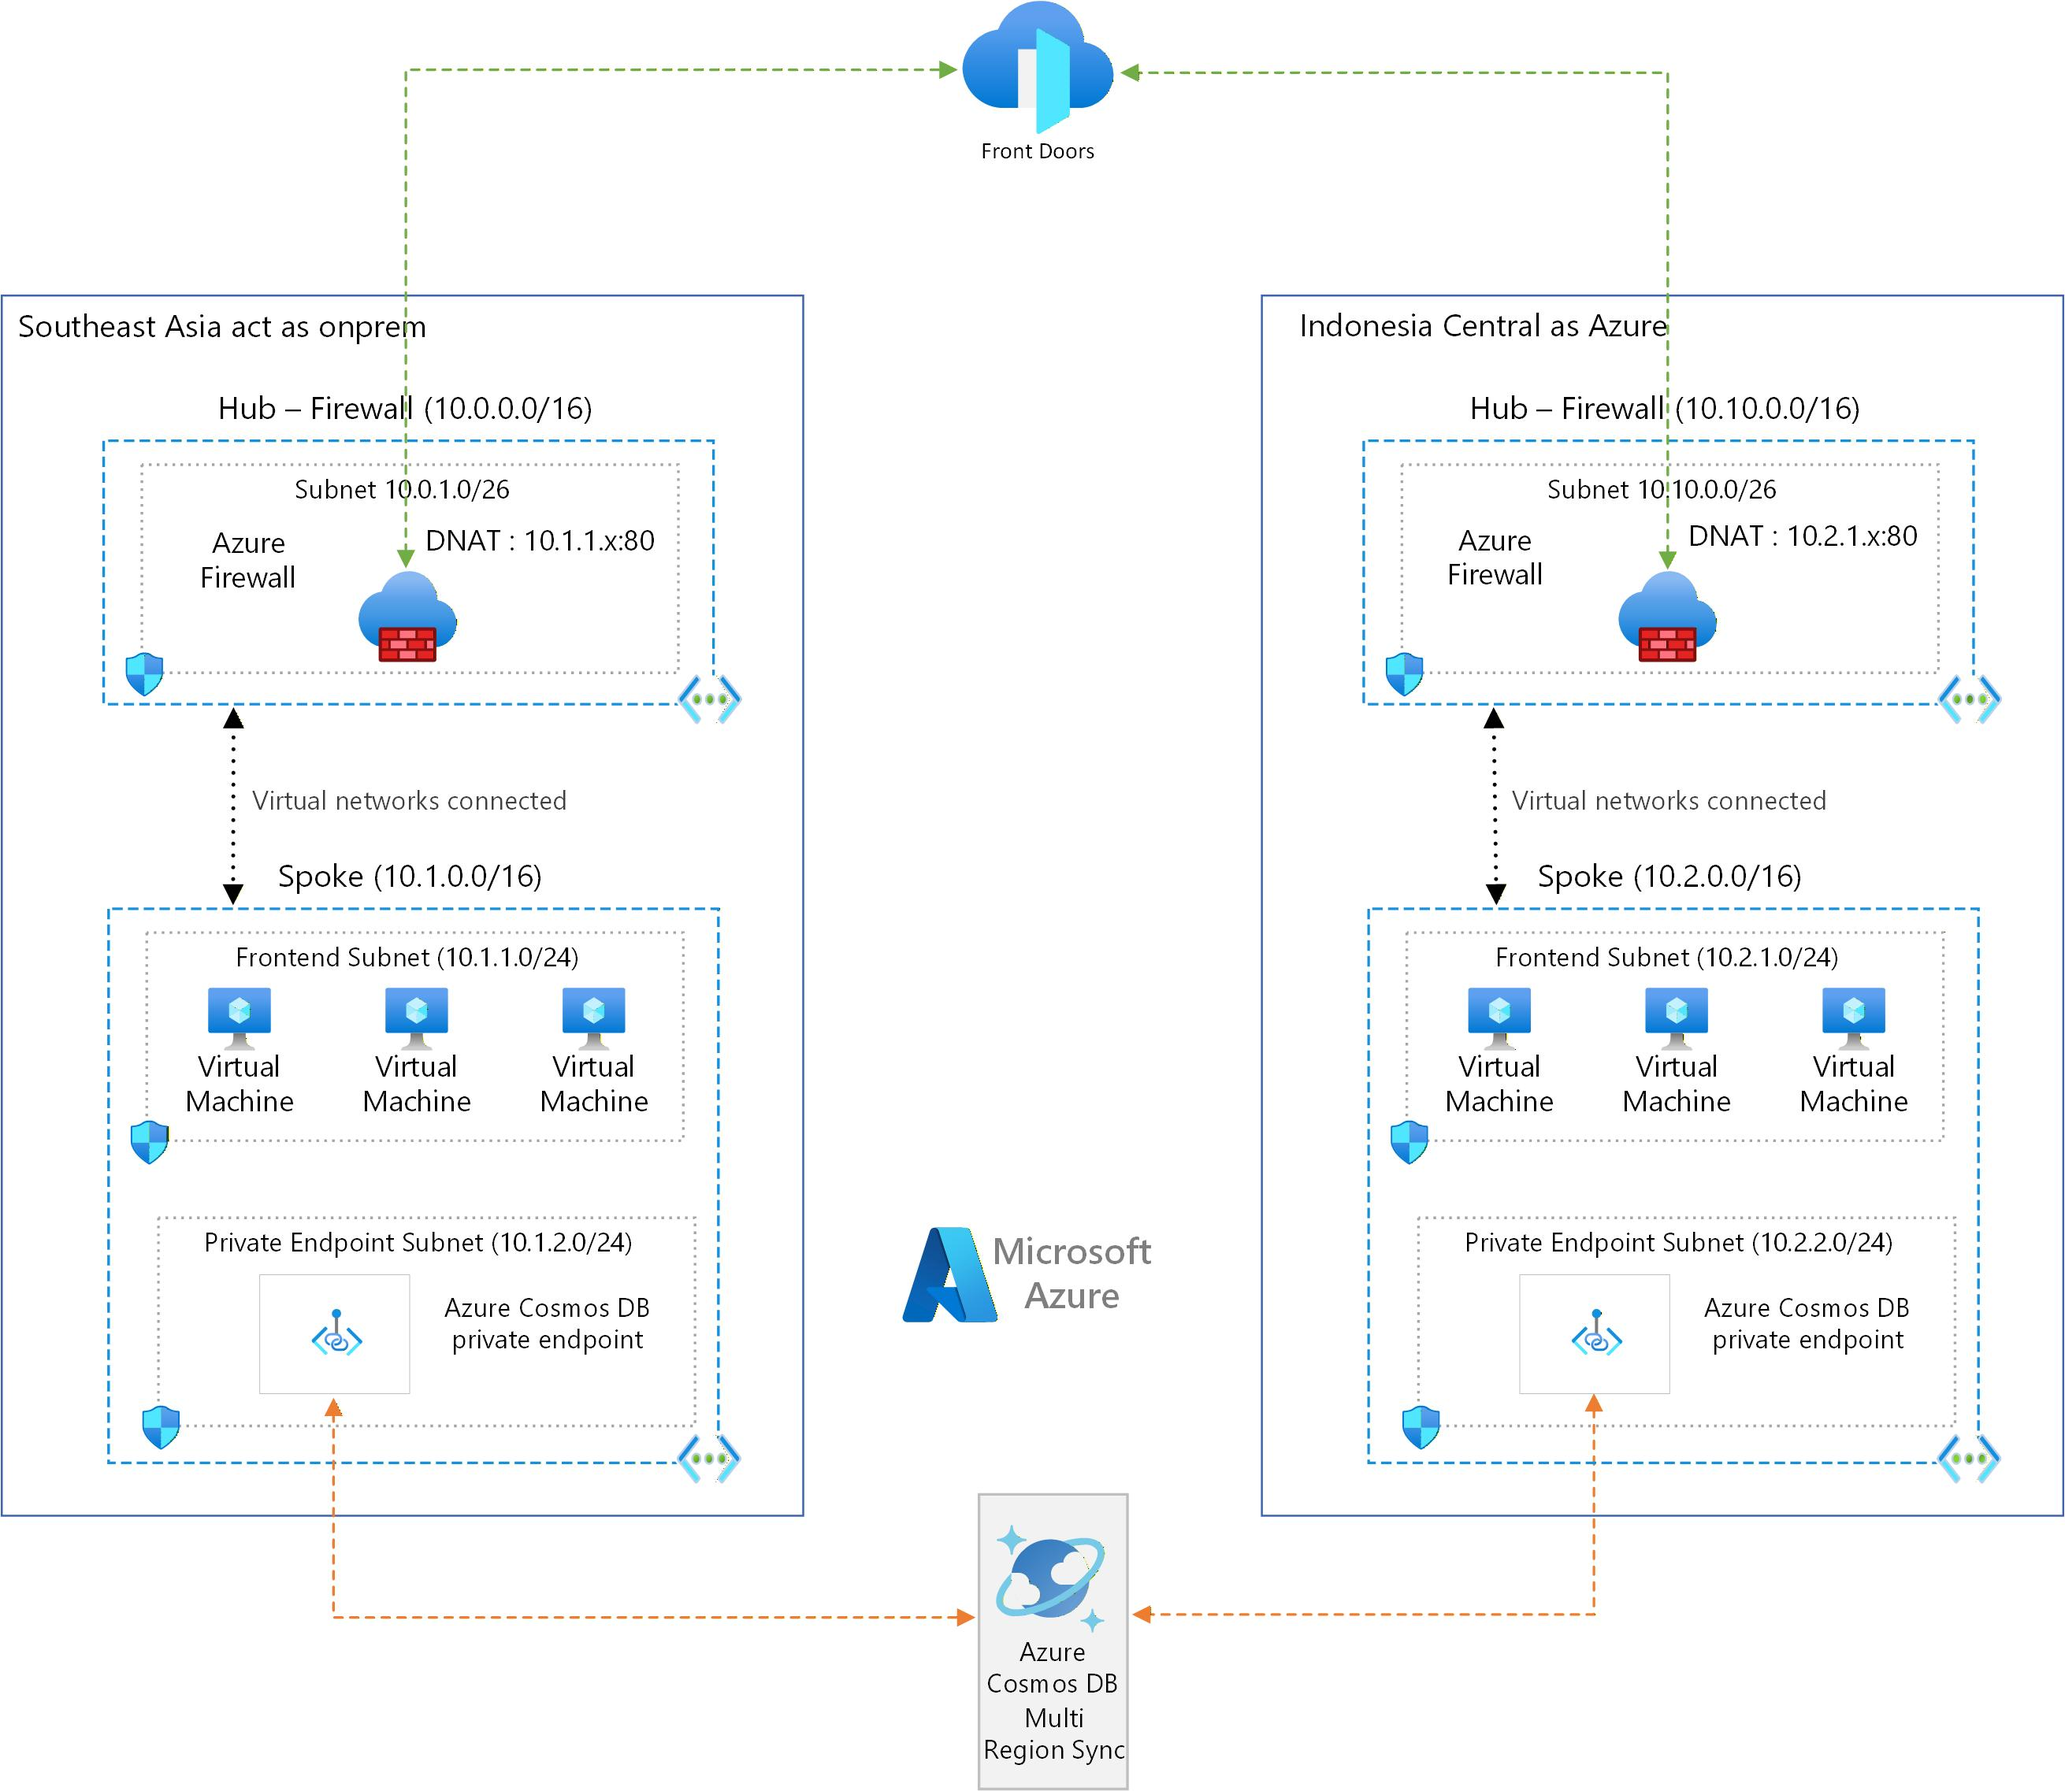
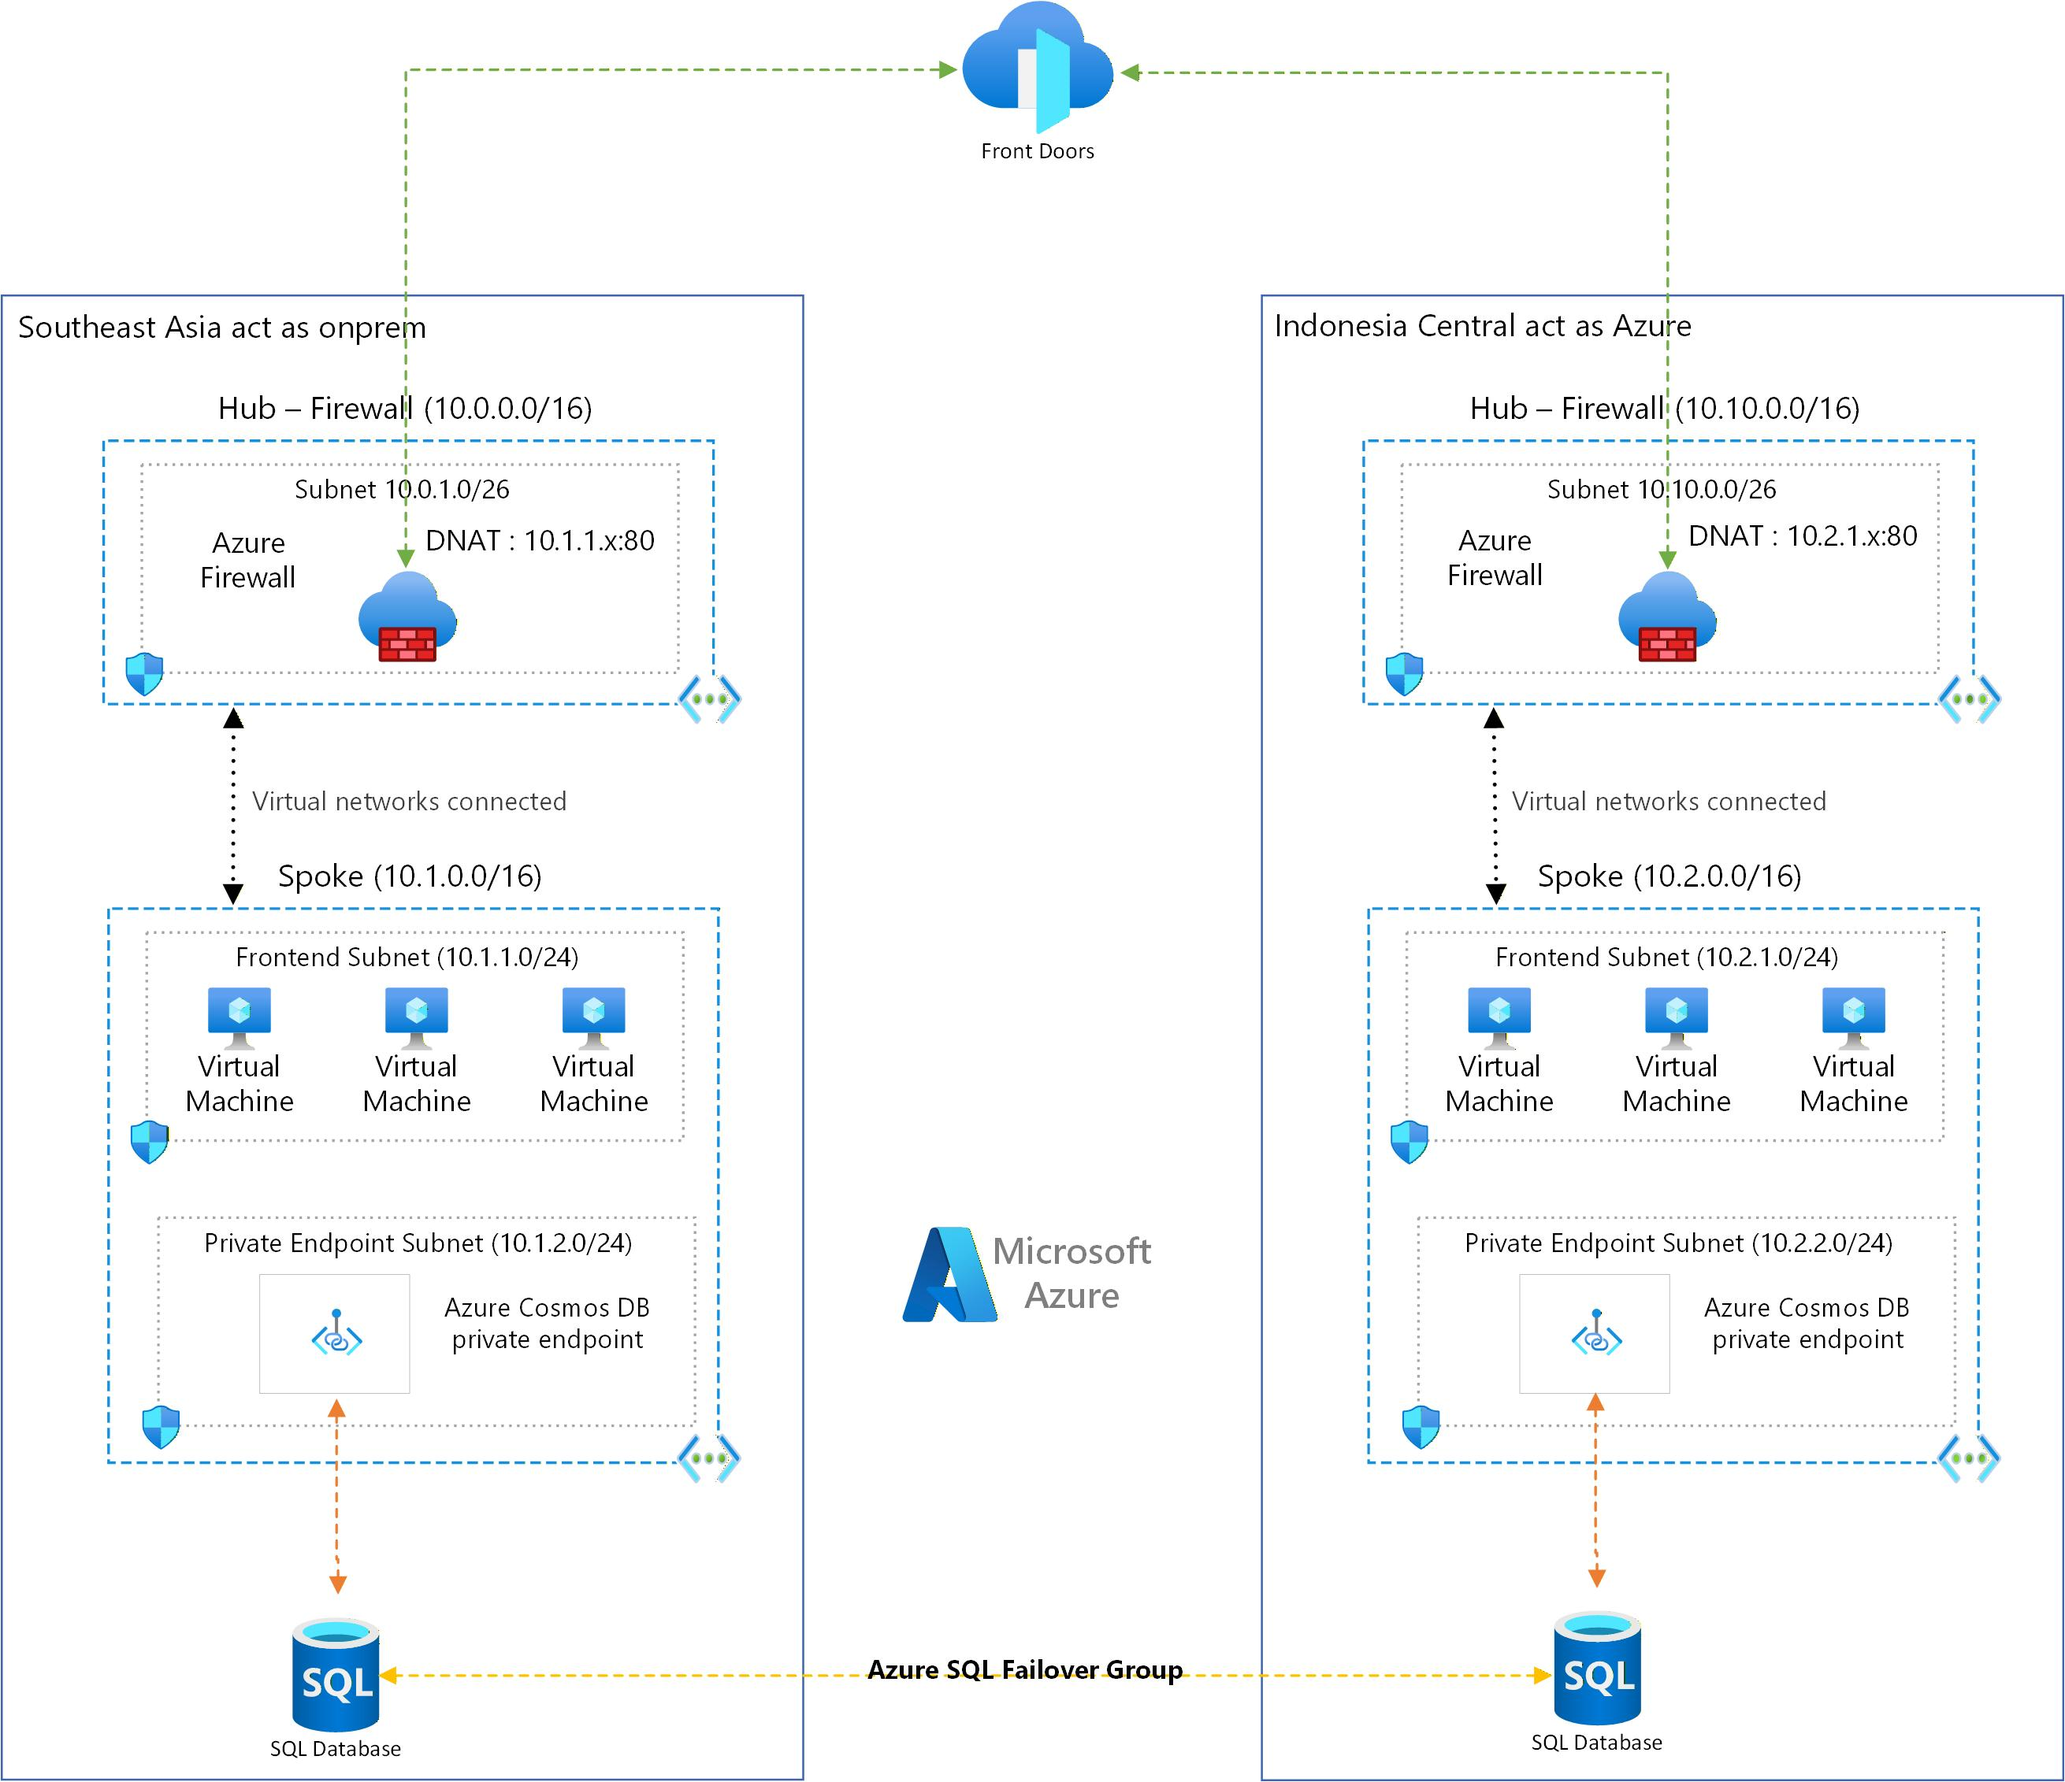
14Jan2026

diff --git a/README.md b/README.md
@@ -31,53 +31,7 @@ Deploy a Node.js application across two Azure regions (Southeast Asia and Indone
 
 ## 🏗 Architecture
 
-```
-                           ┌─────────────────────┐
-                           │   Azure Front Door  │
-                           │  (Global LB + WAF)  │
-                           └──────────┬──────────┘
-                                      │
-              ┌───────────────────────┴───────────────────────┐
-              │                                               │
-              ▼                                               ▼
-    ┌─────────────────────┐                     ┌─────────────────────┐
-    │    HUB VNet SEA     │                     │    HUB VNet IDC     │
-    │   (10.0.0.0/16)     │                     │   (10.10.0.0/16)    │
-    │  ┌───────────────┐  │                     │  ┌───────────────┐  │
-    │  │Azure Firewall │  │                     │  │Azure Firewall │  │
-    │  │ (Basic SKU)   │  │                     │  │ (Basic SKU)   │  │
-    │  │  DNAT Rules   │  │                     │  │  DNAT Rules   │  │
-    │  └───────────────┘  │                     │  └───────────────┘  │
-    └─────────┬───────────┘                     └─────────┬───────────┘
-              │ VNet Peering                              │ VNet Peering
-              ▼                                           ▼
-    ┌─────────────────────┐                     ┌─────────────────────┐
-    │   SPOKE VNet SEA    │                     │   SPOKE VNet IDC    │
-    │   (10.1.0.0/16)     │                     │   (10.2.0.0/16)     │
-    │  ┌───────────────┐  │                     │  ┌───────────────┐  │
-    │  │  Ubuntu VM    │  │                     │  │  Ubuntu VM    │  │
-    │  │  (No Pub IP)  │  │                     │  │  (No Pub IP)  │  │
-    │  │  Node.js App  │  │                     │  │  Node.js App  │  │
-    │  └───────────────┘  │                     │  └───────────────┘  │
-    │  ┌───────────────┐  │                     │  ┌───────────────┐  │
-    │  │Private Endpoint│ │                     │  │Private Endpoint│ │
-    │  │  pe-sql-sea   │  │                     │  │  pe-sql-idc   │  │
-    │  └───────┬───────┘  │                     │  └───────┬───────┘  │
-    └──────────┼──────────┘                     └──────────┼──────────┘
-               │                                           │
-               ▼                                           ▼
-    ┌─────────────────────────────────────────────────────────────────┐
-    │              Azure SQL Database - Failover Group                │
-    │  ┌─────────────────────┐        ┌─────────────────────┐        │
-    │  │   Primary Server    │◄──────►│  Secondary Server   │        │
-    │  │   (Southeast Asia)  │  Geo-  │ (Indonesia Central) │        │
-    │  │    Read/Write       │  Repl  │    Read Replica     │        │
-    │  └─────────────────────┘        └─────────────────────┘        │
-    │                                                                 │
-    │  Failover Group Listener: resiliency-fog.database.windows.net  │
-    │  Public Access: DISABLED (Private Endpoints only)               │
-    └─────────────────────────────────────────────────────────────────┘
-```
+![Azure Resiliency Workshop Architecture](architecture-workshop.jpg)
 
 ## 🧩 Components
 
